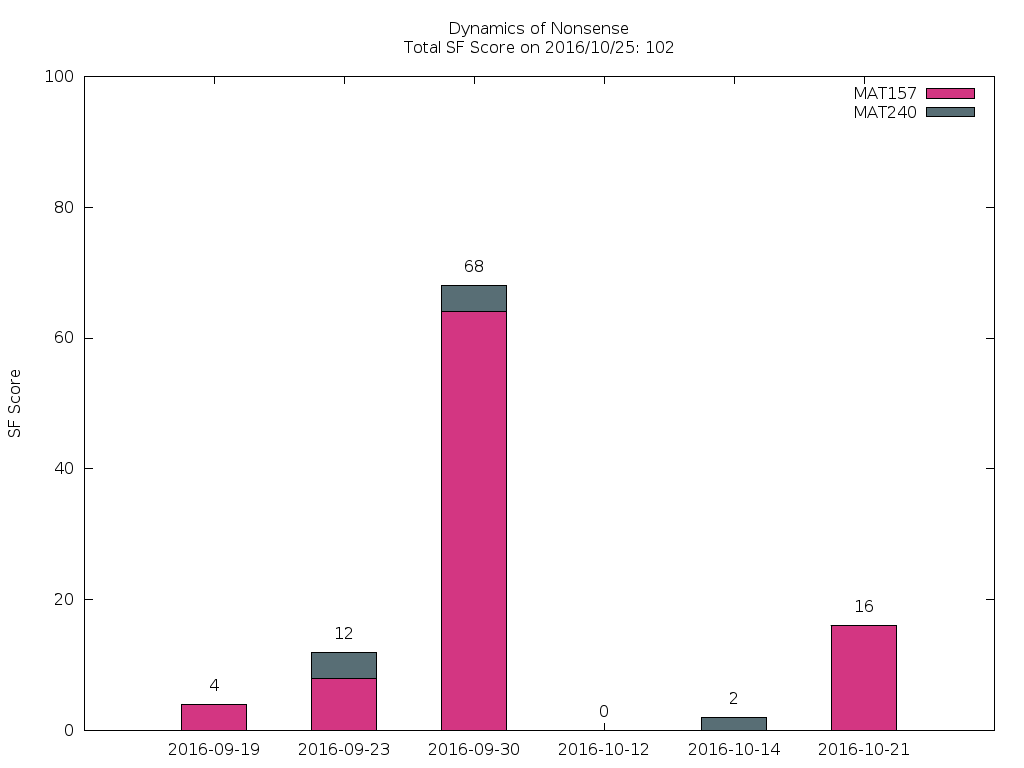
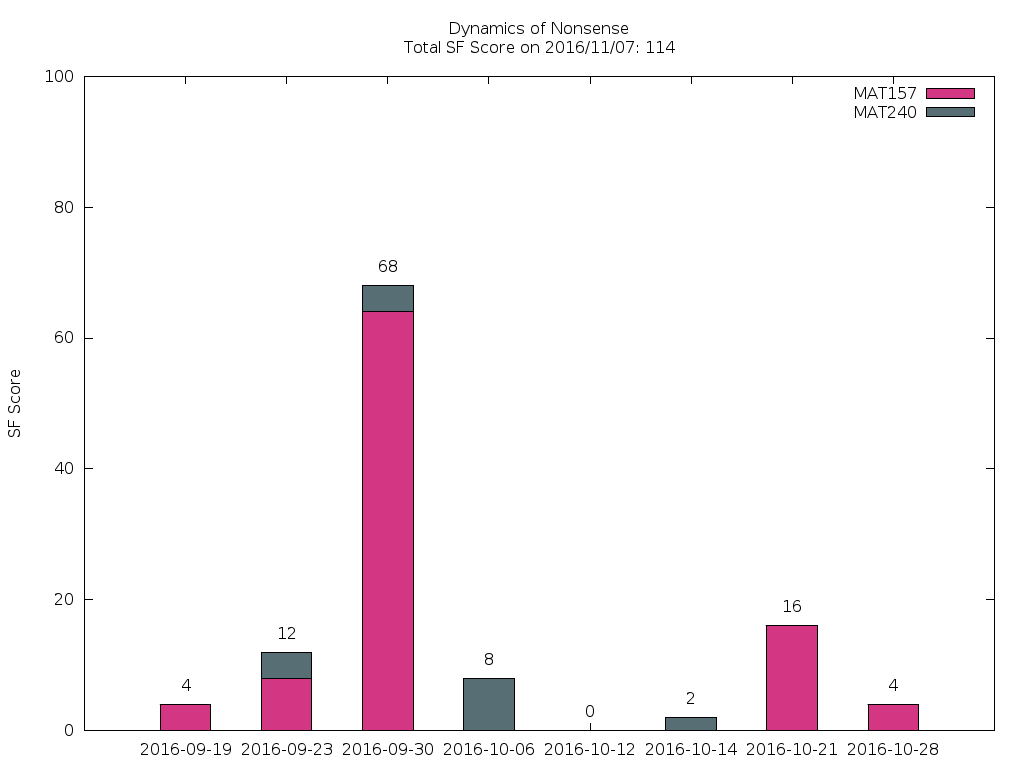
Yet another weblog update.
Source commit: db01ecb16af10c9944d818c0ad406296a326e553
Nikola version: 7.8.0

Changed region(s): [[0.1562, 0.3438, 0.9062, 1.0], [0.5625, 0.9062, 0.5938, 0.9375]]

diff --git a/arbeit/index.html b/arbeit/index.html
@@ -22,8 +22,9 @@ Mathematics
 
 Analysis
 
-20161021 M157: Pset IV
-20161012 M157: Pset III
+20161028 MAT157: Pset 5
+20161021 MAT157: Pset IV
+20161012 MAT157: Pset III
 Midterm Exam
 20160923MAT157
 20160919MAT157
@@ -31,9 +32,7 @@ Midterm Exam
 
 Linear Algebra
 
-20160914
-20160930
-20160923MAT24">
+201">
 <meta property="og:type" content="article">
 <meta property="article:published_time" content="2016-09-28T00:29:15Z">
 </head>
@@ -77,19 +76,22 @@ Linear Algebra
 <li>
 <a href="#sec-3-1">Analysis</a>
 <ul>
-<li><a href="#sec-3-1-1">20161021 M157: Pset IV</a></li>
-<li><a href="#sec-3-1-2">20161012 M157: Pset III</a></li>
-<li><a href="#sec-3-1-3">Midterm Exam</a></li>
-<li><a href="#sec-3-1-4">20160923MAT157</a></li>
-<li><a href="#sec-3-1-5">20160919MAT157</a></li>
+<li><a href="#sec-3-1-1">20161028 MAT157: Pset 5</a></li>
+<li><a href="#sec-3-1-2">20161021 MAT157: Pset IV</a></li>
+<li><a href="#sec-3-1-3">20161012 MAT157: Pset III</a></li>
+<li><a href="#sec-3-1-4">Midterm Exam</a></li>
+<li><a href="#sec-3-1-5">20160923MAT157</a></li>
+<li><a href="#sec-3-1-6">20160919MAT157</a></li>
 </ul>
 </li>
 <li>
 <a href="#sec-3-2">Linear Algebra</a>
 <ul>
-<li><a href="#sec-3-2-1">20160914</a></li>
-<li><a href="#sec-3-2-2">20160930</a></li>
-<li><a href="#sec-3-2-3">20160923MAT240</a></li>
+<li><a href="#sec-3-2-1">20161028 Pset V</a></li>
+<li><a href="#sec-3-2-2">20161014: Pset IV</a></li>
+<li><a href="#sec-3-2-3">20161006: Pset III</a></li>
+<li><a href="#sec-3-2-4">20160930: Pset II</a></li>
+<li><a href="#sec-3-2-5">20160923MAT240: Pset I</a></li>
 </ul>
 </li>
 </ul>
@@ -183,21 +185,42 @@ Nonsense (%):
 <div class="outline-text-3" id="text-3-1">
 </div>
 <div id="outline-container-sec-3-1-1" class="outline-4">
-<h4 id="sec-3-1-1"><a href="https://github.com/sdll/NOTES/blob/master/ARBEIT/ARBEIT20161021MAT157_Pset+IV.pdf">20161021 M157: Pset IV</a></h4>
+<h4 id="sec-3-1-1"><a href="https://github.com/sdll/NOTES/blob/master/ARBEIT/ARBEIT20161028MAT157_PS+5.pdf">20161028 MAT157: Pset 5</a></h4>
 <div class="outline-text-4" id="text-3-1-1">
+<p>
+Nonesense: 13.3%
+</p>
+
+<p>
+Very bad work.
+</p>
+
+<p>
+1(ii). Epsilon-delta pushing is not a substitute for a clear,
+elegant, and correct argument. The ill-defined conclusion given is
+disappointing.
+</p>
+</div>
+</div>
+
+
+<div id="outline-container-sec-3-1-2" class="outline-4">
+<h4 id="sec-3-1-2"><a href="https://github.com/sdll/NOTES/blob/master/ARBEIT/ARBEIT20161021MAT157_Pset+IV.pdf">20161021 MAT157: Pset IV</a></h4>
+<div class="outline-text-4" id="text-3-1-2">
 <p>
 Nonsense: 44.4%
 </p>
 
 <p>
-Bad work.
+Very bad work.
 </p>
 </div>
 </div>
 
-<div id="outline-container-sec-3-1-2" class="outline-4">
-<h4 id="sec-3-1-2"><a href="https://github.com/sdll/NOTES/blob/master/ARBEIT/ARBEIT20161012MAT157_Pset+III.pdf">20161012 M157: Pset III</a></h4>
-<div class="outline-text-4" id="text-3-1-2">
+
+<div id="outline-container-sec-3-1-3" class="outline-4">
+<h4 id="sec-3-1-3"><a href="https://github.com/sdll/NOTES/blob/master/ARBEIT/ARBEIT20161012MAT157_Pset+III.pdf">20161012 MAT157: Pset III</a></h4>
+<div class="outline-text-4" id="text-3-1-3">
 <p>
 Nonsense: 0.00%
 </p>
@@ -208,9 +231,9 @@ Try to use less unnecessary lemma machinery.
 </div>
 </div>
 
-<div id="outline-container-sec-3-1-3" class="outline-4">
-<h4 id="sec-3-1-3"><a href="https://github.com/sdll/NOTES/blob/master/ARBEIT/ARBEIT20160930MAT157_Midterm.pdf">Midterm Exam</a></h4>
-<div class="outline-text-4" id="text-3-1-3">
+<div id="outline-container-sec-3-1-4" class="outline-4">
+<h4 id="sec-3-1-4"><a href="https://github.com/sdll/NOTES/blob/master/ARBEIT/ARBEIT20160930MAT157_Midterm.pdf">Midterm Exam</a></h4>
+<div class="outline-text-4" id="text-3-1-4">
 <p>
 Nonsense: 50.0%
 </p>
@@ -221,9 +244,9 @@ Very bad work.
 </div>
 </div>
 
-<div id="outline-container-sec-3-1-4" class="outline-4">
-<h4 id="sec-3-1-4"><a href="https://github.com/sdll/NOTES/blob/master/ARBEIT/MAT/MAT157/20160923MAT157.pdf">20160923MAT157</a></h4>
-<div class="outline-text-4" id="text-3-1-4">
+<div id="outline-container-sec-3-1-5" class="outline-4">
+<h4 id="sec-3-1-5"><a href="https://github.com/sdll/NOTES/blob/master/ARBEIT/MAT/MAT157/20160923MAT157.pdf">20160923MAT157</a></h4>
+<div class="outline-text-4" id="text-3-1-5">
 <p>
 Nonsense: 30.0%
 </p>
@@ -288,9 +311,9 @@ that $$\alpha$$ is rational.
 </div>
 </div>
 
-<div id="outline-container-sec-3-1-5" class="outline-4">
-<h4 id="sec-3-1-5"><a href="https://github.com/sdll/NOTES/blob/master/ARBEIT/MAT/MAT157/20160919MAT157.pdf">20160919MAT157</a></h4>
-<div class="outline-text-4" id="text-3-1-5">
+<div id="outline-container-sec-3-1-6" class="outline-4">
+<h4 id="sec-3-1-6"><a href="https://github.com/sdll/NOTES/blob/master/ARBEIT/MAT/MAT157/20160919MAT157.pdf">20160919MAT157</a></h4>
+<div class="outline-text-4" id="text-3-1-6">
 <p>
 Nonsense: 10.3%
 </p>
@@ -316,8 +339,43 @@ want to show, and review your results
 <div class="outline-text-3" id="text-3-2">
 </div>
 <div id="outline-container-sec-3-2-1" class="outline-4">
-<h4 id="sec-3-2-1">20160914</h4>
+<h4 id="sec-3-2-1">20161028 Pset V</h4>
 <div class="outline-text-4" id="text-3-2-1">
+<p>
+Nonesense: 4.00%
+</p>
+
+<ul class="org-ul">
+<li>
+<a href="https://github.com/sdll/NOTES/blob/master/ARBEIT/ARBEIT20161028MAT240_1.pdf">20161028 MAT240: 1</a>
+</li>
+<li>
+<a href="https://github.com/sdll/NOTES/blob/master/ARBEIT/ARBEIT20161028MAT240_2.pdf">20161028 MAT240: 2</a>
+
+<p>
+The construction of a linear map \(U\) as given satisfies the
+condition for every vector in \(W\) if and only if \(v\neq
+    0\). Remember that the value of \(S\) depends on its input.
+</p>
+</li>
+
+<li>
+<a href="https://github.com/sdll/NOTES/blob/master/ARBEIT/ARBEIT20161028MAT240_3.pdf">20161028 MAT240: 3</a>
+</li>
+<li>
+<a href="https://github.com/sdll/NOTES/blob/master/ARBEIT/ARBEIT20161028MAT240_4.pdf">20161028 MAT240: 4</a>
+</li>
+</ul>
+</div>
+</div>
+
+<div id="outline-container-sec-3-2-2" class="outline-4">
+<h4 id="sec-3-2-2">20161014: Pset IV</h4>
+<div class="outline-text-4" id="text-3-2-2">
+<p>
+Nonsense: 98.0%
+</p>
+
 <ul class="org-ul">
 <li>
 <a href="https://github.com/sdll/NOTES/blob/master/ARBEIT/ARBEIT20161014MAT240_1.pdf">20161014 MAT240: 1</a>
@@ -343,9 +401,77 @@ Argue about the dimensions to claim a basis.
 </div>
 </div>
 
-<div id="outline-container-sec-3-2-2" class="outline-4">
-<h4 id="sec-3-2-2">20160930</h4>
-<div class="outline-text-4" id="text-3-2-2">
+<div id="outline-container-sec-3-2-3" class="outline-4">
+<h4 id="sec-3-2-3">20161006: Pset III</h4>
+<div class="outline-text-4" id="text-3-2-3">
+<p>
+Nonsense: 37.0%
+</p>
+
+<ul class="org-ul">
+<li>
+<a href="https://github.com/sdll/NOTES/blob/master/ARBEIT/ARBEIT20161006MAT240_1.pdf">20161006 MAT240: 1</a>
+
+<p>
+Show your work!
+</p>
+
+<p>
+Commentary, reproduced as is:
+</p>
+</li>
+</ul>
+<p>
+/The reason your argument deserves no credit is that you haven't
+given an argument. You pull the coefficients out of thin air,
+without any explanation as to how you got them, or any proof that
+they work. I have no assurances that you didn't simply copy them
+from someone else, or use Wolfram Alpha, Maple, or another computer
+algebra system to get these coefficients. Keep in mind: the right
+answer isn't worth anything by itself./
+</p>
+
+<ul class="org-ul">
+<li>
+<a href="https://github.com/sdll/NOTES/blob/master/ARBEIT/ARBEIT20161006MAT240_2.pdf">20161006 MAT240: 2</a> The explanation is not lucid, and throwing
+big-name principles in the face of the reader will not make it
+more so. It is much better to argue from the observation that any
+vector space must include all the scalar multiples of any vector it
+contains.
+</li>
+<li>
+<a href="https://github.com/sdll/NOTES/blob/master/ARBEIT/ARBEIT20161006MAT240_3.pdf">20161006 MAT240: 3</a>
+
+<p>
+Write the proof in the direction that makes it rigorous, not in
+the way it was obtained.
+</p>
+</li>
+
+<li>
+<a href="https://github.com/sdll/NOTES/blob/master/ARBEIT/ARBEIT20161006MAT240_4.pdf">20161006 MAT240: 4</a>
+
+<p>
+The reasoning why \(\phi\) exists is wrong: it is because
+\(\sqrt{m^2+n^2} \neq 0\).
+</p>
+</li>
+
+<li>
+<a href="https://github.com/sdll/NOTES/blob/master/ARBEIT/ARBEIT20161006MAT240_5.pdf">20161006 MAT240: 5</a>
+
+<p>
+Improve your writing. For example, fixing \(u'\) is not necessary in
+the beginning.
+</p>
+</li>
+</ul>
+</div>
+</div>
+
+<div id="outline-container-sec-3-2-4" class="outline-4">
+<h4 id="sec-3-2-4">20160930: Pset II</h4>
+<div class="outline-text-4" id="text-3-2-4">
 <p>
 Nonsense: 12.0%
 </p>
@@ -451,9 +577,9 @@ must be in $$W$$. Hence, all the elements of $$S$$ are in $$W$$.
 </div>
 </div>
 
-<div id="outline-container-sec-3-2-3" class="outline-4">
-<h4 id="sec-3-2-3">20160923MAT240</h4>
-<div class="outline-text-4" id="text-3-2-3">
+<div id="outline-container-sec-3-2-5" class="outline-4">
+<h4 id="sec-3-2-5">20160923MAT240: Pset I</h4>
+<div class="outline-text-4" id="text-3-2-5">
 <p>
 Nonsense: 10.0%
 </p>

diff --git a/notes/index.html b/notes/index.html
@@ -40,7 +40,7 @@ Analysis
 
 20160914 MAT157: Abso">
 <meta property="og:type" content="article">
-<meta property="article:published_time" content="2016-11-07T00:53:45Z">
+<meta property="article:published_time" content="2016-11-07T02:19:47Z">
 </head>
 <body>
   <div id="container">
@@ -356,6 +356,9 @@ Analysis
 <a href="https://github.com/sdll/NOTES/blob/master/CHM/20161026CHM151_Hydroboration+of+Alkenes.pdf">20161026 CHM151: Hydroboration of Alkenes</a>
 </li>
 <li>
+<a href="https://github.com/sdll/NOTES/blob/master/CHM/20161028CHM151_Oxydation,+Dihydroxylation,+Epoxydation.pdf">20161028 CHM151: Oxydation, Dihydroxylation, Epoxydation</a>
+</li>
+<li>
 <a href="https://github.com/sdll/NOTES/blob/master/CHM/20161031CHM151_Concerted+Additions,+Oxidative+Cleavage+and+Alkyl+Halides.pdf">20161031 CHM151: Concerted Additions, Oxidative Cleavage and Alkyl Halides</a>
 </li>
 <li>
@@ -367,6 +370,7 @@ Analysis
 </ul>
 </div>
 </div>
+
 <div id="outline-container-sec-5" class="outline-2">
 <h2 id="sec-5">Biology</h2>
 <div class="outline-text-2" id="text-5">
